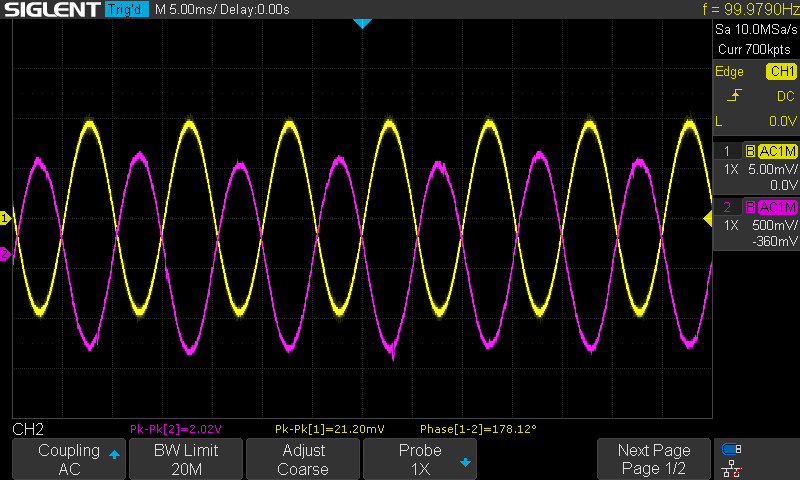
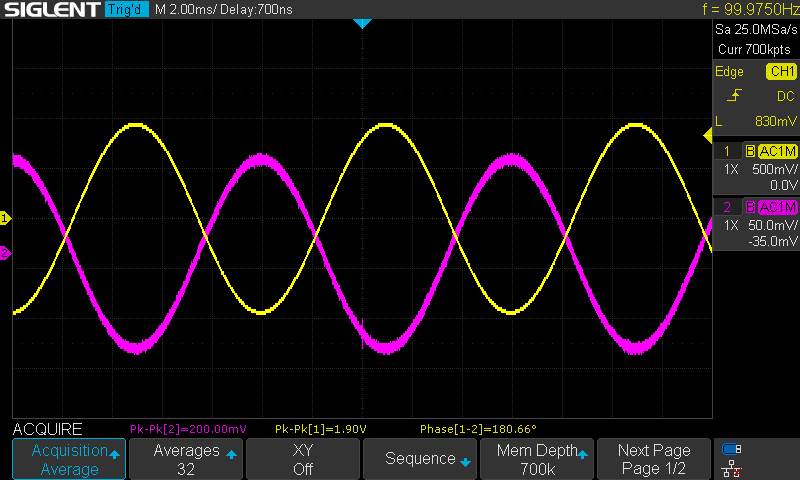
correct almost

diff --git a/Multisim Circuits/Opamp/Inverting/README.md b/Multisim Circuits/Opamp/Inverting/README.md
@@ -29,37 +29,36 @@ At the displayed cursor position, Multisim reads 49.550 mV on Channel A and -473
 
 ## Hardware measurements
 
-The hardware images show the Siglent measurement bar. Channel 1 is the yellow input and Channel 2 is the magenta output. The Vpp measurements below are transcribed from the screen; the gain column is recalculated as `Vout(pp) / Vin(pp)`. Frequencies are the filenames. This is the observed hardware ratio, not the schematic's ideal gain.
+The channel assignment changes between capture groups. From 50 Hz through 10 kHz, CH1 (yellow, 500 mV/div) is the large output and CH2 (magenta, 50 mV/div) is the input. From 50 kHz through 10 MHz, CH1 (yellow, 5 mV/div) is the small input and CH2 (magenta, 500 mV/div, or 200 mV/div at 2 MHz) is the output. The table maps input/output accordingly for each row. Frequencies follow the filenames.
 
-| Capture frequency | Input (Vpp) | Output (Vpp) | Observed gain magnitude (V/V) | Scope phase (deg) |
-|---:|---:|---:|---:|---:|
-| 50 Hz | 0.0210 | 2.06 | 98.10 | 181.02 |
-| 100 Hz | 0.0212 | 2.02 | 95.28 | 178.12 |
-| 200 Hz | 0.0210 | 2.02 | 96.19 | 180.07 |
-| 500 Hz | 0.0208 | 1.98 | 95.19 | 180.18 |
-| 1 kHz | 0.0206 | 1.96 | 95.15 | 177.71 |
-| 2 kHz | 0.0206 | 1.96 | 95.15 | 181.08 |
-| 5 kHz | 0.0206 | 2.00 | 97.09 | 185.41 |
-| 10 kHz | 0.0214 | 2.08 | 97.20 | 191.82 |
-| 50 kHz | 0.0212 | 1.40 | 66.04 | Not shown |
-| 100 kHz | 0.0210 | 0.800 | 38.10 | Not shown |
-| 200 kHz | 0.0210 | 0.440 | 20.95 | Not shown |
-| 500 kHz | 0.0210 | 0.220 | 10.48 | Not shown |
-| 2 MHz | 0.0206 | 0.056 | 2.72 | Not shown |
-| 5 MHz | 0.0200 | 0.032 | 1.60 | 9.00 |
-| 10 MHz | 0.0208 | 0.140 | 6.73 | -50.51 |
+| Capture frequency | Input channel | Input (Vpp) | Output channel | Output (Vpp) | Gain magnitude (V/V) | Gain magnitude (dB) |
+|---:|---:|---:|---:|---:|---:|---:|
+| 50 Hz | CH2 | 0.226 | CH1 | 1.960 | 8.67 | 18.76 |
+| 100 Hz | CH2 | 0.200 | CH1 | 1.900 | 9.50 | 19.55 |
+| 500 Hz | CH2 | 0.194 | CH1 | 1.900 | 9.79 | 19.82 |
+| 1 kHz | CH2 | 0.192 | CH1 | 1.900 | 9.90 | 19.91 |
+| 2 kHz | CH2 | 0.194 | CH1 | 1.880 | 9.69 | 19.73 |
+| 5 kHz | CH2 | 0.194 | CH1 | 1.920 | 9.90 | 19.91 |
+| 10 kHz | CH2 | 0.198 | CH1 | 1.960 | 9.90 | 19.91 |
+| 50 kHz | CH1 | 0.0212 | CH2 | 1.400 | 66.04 | 36.40 |
+| 100 kHz | CH1 | 0.0210 | CH2 | 0.800 | 38.10 | 31.62 |
+| 200 kHz | CH1 | 0.0210 | CH2 | 0.440 | 20.95 | 26.42 |
+| 500 kHz | CH1 | 0.0210 | CH2 | 0.220 | 10.48 | 20.40 |
+| 2 MHz | CH1 | 0.0206 | CH2 | 0.056 | 2.72 | 8.69 |
+| 5 MHz | CH1 | 0.0200 | CH2 | 0.032 | 1.60 | 4.08 |
+| 10 MHz | CH1 | 0.0208 | CH2 | 0.140 | 6.73 | 16.56 |
 
-At 1 kHz, the hardware screenshot's displayed values give `1.96 Vpp / 20.60 mVpp = 95.15 V/V`, not 10 V/V. This is not a correction to the ideal formula: it indicates that the hardware capture does not match the stated 10 kOhm / 100 kOhm circuit, or that its measurement setup is misconfigured. The input is also only 20.6 mVpp in this capture, whereas the Multisim source is set to 100 mVpp. Confirm the physical resistor values and wiring, probe attenuation, and channel scaling before using the hardware result as validation. The 5 MHz and 10 MHz readings are non-monotonic and their output/phase readings may be unreliable near the noise floor.
+Gain in dB is calculated as `20 * log10(|Vout(pp) / Vin(pp)|)`; it expresses magnitude, while the inverting phase is indicated separately by the waveforms. There is no `200Hz.png` capture in the current folder. At 1 kHz, the corrected measurement is `1.900 Vpp / 0.192 Vpp = 9.90 V/V` or 19.91 dB, close to the ideal magnitude of 10 V/V (20 dB). The 50 Hz–10 kHz readings are consistently near the expected gain. Above 50 kHz, gain falls as the LM741 approaches its bandwidth limit; the non-monotonic 5 MHz and 10 MHz values are near the measurement floor and should not be used to infer a precise high-frequency response.
 
 No `1MHz.png` capture is present in this folder.
 
 ## Hardware oscilloscope captures
 
-The measurement labels are included in each image. The scope's phase values are reproduced as displayed; values may wrap around 360 degrees, and a dash in the table means the capture had no readable phase value.
+The measurement overlays remain visible in each image. The table uses the displayed peak-to-peak values and identifies the input/output channel mapping for each frequency group.
 
-| 50 Hz | 100 Hz | 200 Hz |
+| 50 Hz | 100 Hz | 500 Hz |
 |---|---|---|
-| <img src="Hardware%20Images/50Hz.png" alt="Inverting amplifier hardware capture at 50 Hz" width="250"> | <img src="Hardware%20Images/100Hz.png" alt="Inverting amplifier hardware capture at 100 Hz" width="250"> | <img src="Hardware%20Images/200Hz.png" alt="Inverting amplifier hardware capture at 200 Hz" width="250"> |
+| <img src="Hardware%20Images/50Hz.png" alt="Inverting amplifier hardware capture at 50 Hz" width="250"> | <img src="Hardware%20Images/100Hz.png" alt="Inverting amplifier hardware capture at 100 Hz" width="250"> | <img src="Hardware%20Images/500Hz.png" alt="Inverting amplifier hardware capture at 500 Hz" width="250"> |
 | 500 Hz | 1 kHz | 2 kHz |
 | <img src="Hardware%20Images/500Hz.png" alt="Inverting amplifier hardware capture at 500 Hz" width="250"> | <img src="Hardware%20Images/1kHz.png" alt="Inverting amplifier hardware capture at 1 kHz" width="250"> | <img src="Hardware%20Images/2kHz.png" alt="Inverting amplifier hardware capture at 2 kHz" width="250"> |
 | 5 kHz | 10 kHz | 50 kHz |

diff --git a/Multisim Circuits/Opamp/Non-Inverting/README.md b/Multisim Circuits/Opamp/Non-Inverting/README.md
@@ -31,23 +31,23 @@ At the displayed cursor position, Multisim reads 16.634 mV on Channel A and 210.
 
 The replacement hardware images show the Siglent measurement bar. Channel 1 is the yellow input and Channel 2 is the magenta output. The Vpp readings below are transcribed from the screen, and gain is recalculated as `Vout(pp) / Vin(pp)`. Frequencies follow the capture filenames; the scope's frequency-counter readout is noisy and unreliable at high frequencies.
 
-| Capture frequency (filename) | Input (Vpp) | Output (Vpp) | Observed gain magnitude (V/V) |
-|---:|---:|---:|---:|
-| 100 Hz | 0.224 | 2.260 | 10.09 |
-| 200 Hz | 0.220 | 2.260 | 10.27 |
-| 500 Hz | 0.220 | 2.260 | 10.27 |
-| 1 kHz | 0.220 | 2.260 | 10.27 |
-| 2 kHz | 0.216 | 2.240 | 10.37 |
-| 5 kHz | 0.216 | 2.240 | 10.37 |
-| 10 kHz | 0.220 | 2.260 | 10.27 |
-| 50 kHz | 0.212 | 1.800 | 8.49 |
-| 100 kHz | 0.212 | 1.180 | 5.57 |
-| 200 kHz | 0.216 | 0.660 | 3.06 |
-| 500 kHz | 0.204 | 0.272 | 1.33 |
-| 1 MHz | 0.208 | 0.136 | 0.65 |
-| 2 MHz | 0.204 | 0.072 | 0.35 |
-| 5 MHz | 0.188 | 0.036 | 0.19 |
-| 10 MHz | 0.152 | 0.0096 | 0.063 |
+| Capture frequency (filename) | Input (Vpp) | Output (Vpp) | Gain magnitude (V/V) | Gain magnitude (dB) |
+|---:|---:|---:|---:|---:|
+| 100 Hz | 0.224 | 2.260 | 10.09 | 20.08 |
+| 200 Hz | 0.220 | 2.260 | 10.27 | 20.23 |
+| 500 Hz | 0.220 | 2.260 | 10.27 | 20.23 |
+| 1 kHz | 0.220 | 2.260 | 10.27 | 20.23 |
+| 2 kHz | 0.216 | 2.240 | 10.37 | 20.32 |
+| 5 kHz | 0.216 | 2.240 | 10.37 | 20.32 |
+| 10 kHz | 0.220 | 2.260 | 10.27 | 20.23 |
+| 50 kHz | 0.212 | 1.800 | 8.49 | 18.58 |
+| 100 kHz | 0.212 | 1.180 | 5.57 | 14.91 |
+| 200 kHz | 0.216 | 0.660 | 3.06 | 9.70 |
+| 500 kHz | 0.204 | 0.272 | 1.33 | 2.50 |
+| 1 MHz | 0.208 | 0.136 | 0.65 | -3.69 |
+| 2 MHz | 0.204 | 0.072 | 0.35 | -9.05 |
+| 5 MHz | 0.188 | 0.036 | 0.19 | -14.36 |
+| 10 MHz | 0.152 | 0.0096 | 0.063 | -23.99 |
 
 There is no 50 Hz image in the replacement capture set. From 100 Hz through 10 kHz, the measured gain is 10.09–10.37 V/V, about 6–8% below the ideal +11 V/V. At 1 kHz, `2.260 Vpp / 0.220 Vpp = 10.27 V/V`, confirming the expected non-inverting gain closely. The measured input is about 0.22 Vpp, higher than the schematic's nominal 0.10 Vpp source setting; use the measured Channel 1 value for gain. Gain falls from about 8.49 V/V at 50 kHz as the LM741 approaches its bandwidth limit. For frequency-response interpretation, use the frequencies in the capture filenames; do not use the high-frequency scope-counter readouts, which are unreliable because of noise.
 
@@ -70,7 +70,7 @@ The replacement gallery contains 15 captures, from 100 Hz to 10 MHz. No 50 Hz ca
 ## Calculation and measurement notes
 
 ```text
-Av = Vout(pp) / Vin(pp)
+|Av| = Vout(pp) / Vin(pp)
 Av(dB) = 20 * log10(|Av|)
 ```
 
